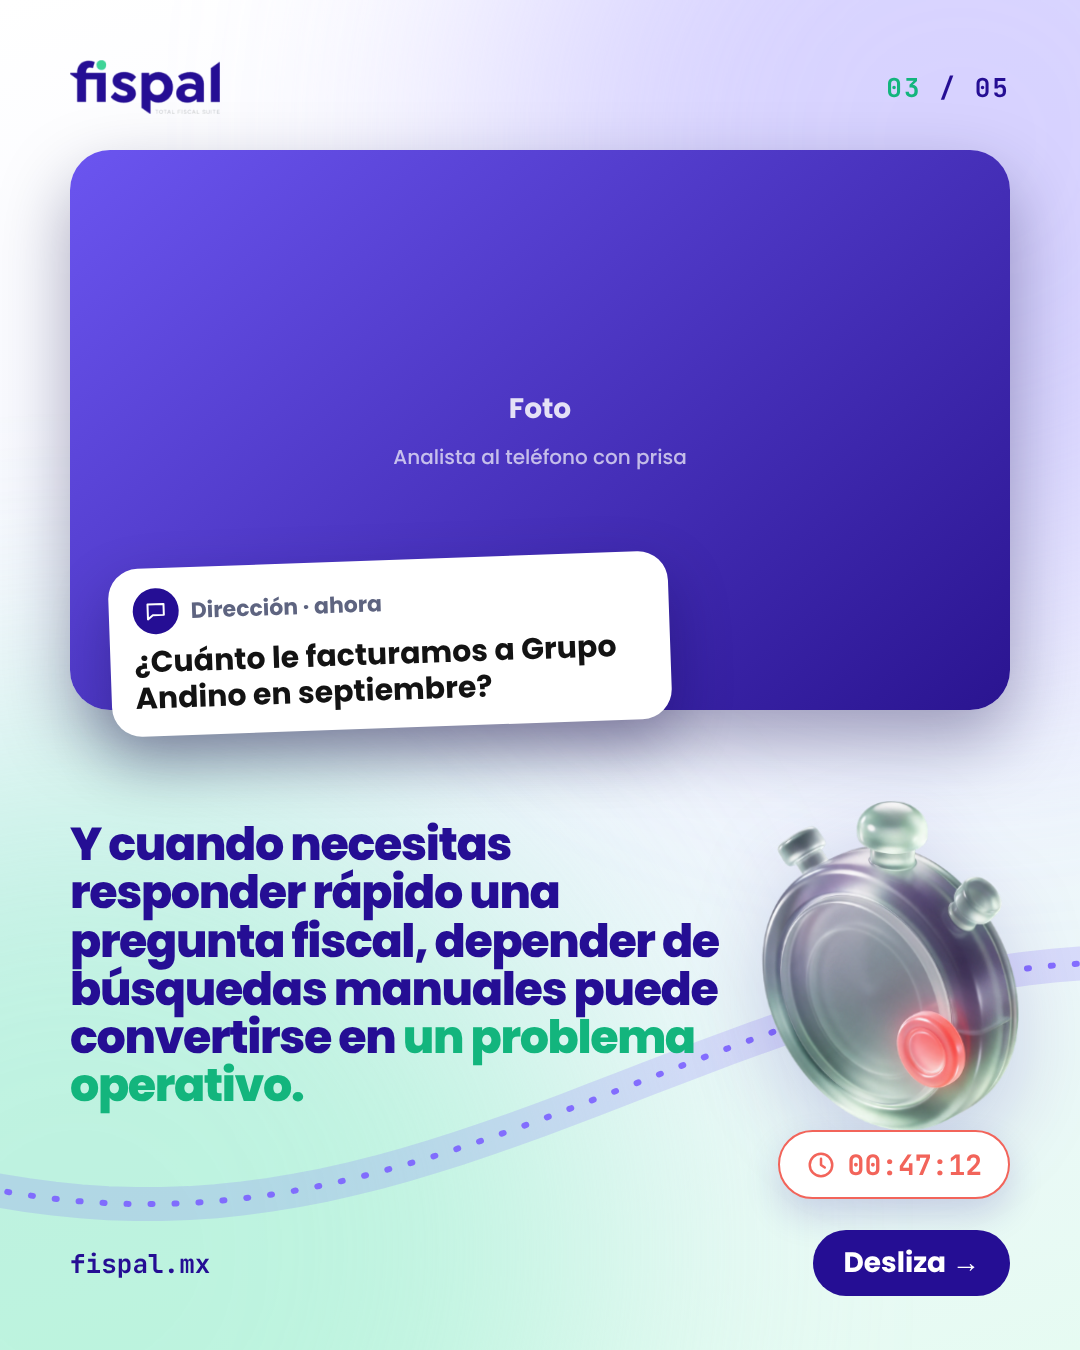
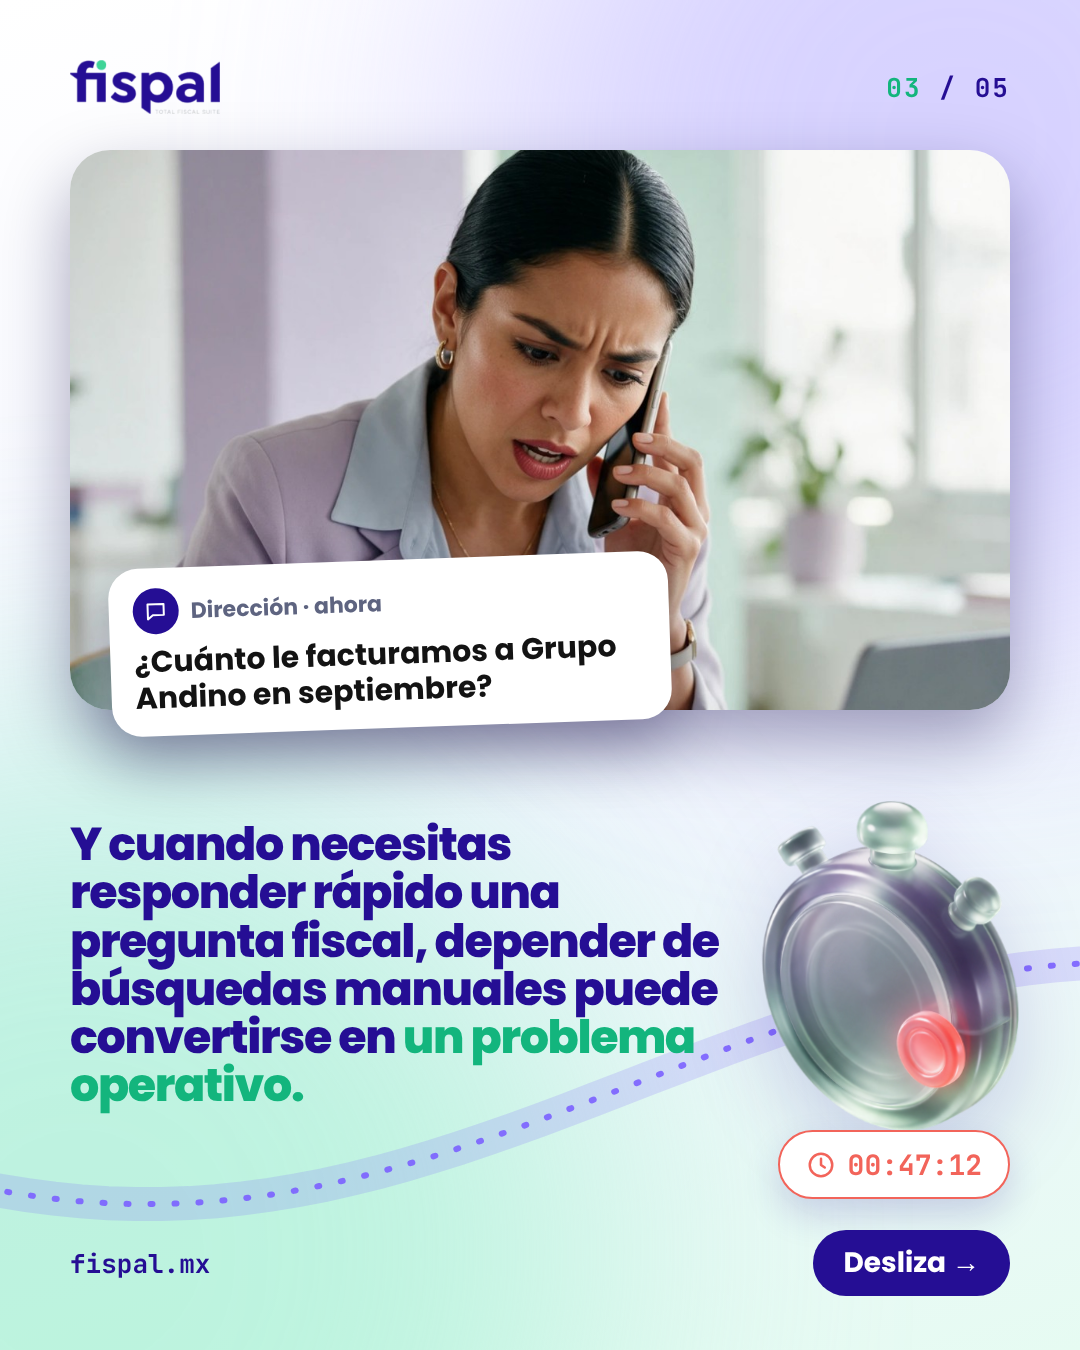
Fispal carrusel 2 (ERP): Magnific photos in place
Claude-Session: https://claude.ai/code/session_01NghCctPQaKXziVeL1FGG6n

diff --git a/editor/src/carruseles/C2Erp.tsx b/editor/src/carruseles/C2Erp.tsx
@@ -36,7 +36,7 @@ const S1: React.FC = () => (
       <Title t={t} size={52} parts={["Pero… ¿qué tan fácil es ", { hl: "encontrarla cuando la necesitas?" }]} style={{ marginTop: 14 }} />
     </div>
     <Glass3D name="erp-laberinto" x={600} y={820} size={560} />
-    <Photo name="c2-erp" hint="Contador frente a su ERP" position="50% 28%" radius="50%" ring="#fff" style={{ left: 60, top: 700, width: 330, height: 330 }} />
+    <Photo name="c2-erp" hint="Contador frente a su ERP" position="56% 30%" radius="50%" ring="#fff" style={{ left: 60, top: 700, width: 330, height: 330 }} />
     <Pill style={{ left: 70, top: 1060 }}>
       <Icon d={IC.search} size={30} color={C.purple} />
       <span style={{ fontFamily: MONO, fontSize: 24, color: CORAL }}>0 resultados</span>
@@ -80,7 +80,7 @@ const S2: React.FC = () => (
 /* 3 — responder rápido: photo banner on top, text below */
 const S3: React.FC = () => (
   <Frame t={t} i={2} n={N}>
-    <Photo name="c2-urgente" hint="Analista al teléfono con prisa" position="50% 30%" radius={40} style={{ left: 70, right: 70, top: 150, height: 560 }} />
+    <Photo name="c2-urgente" hint="Analista al teléfono con prisa" position="50% 38%" radius={40} style={{ left: 70, right: 70, top: 150, height: 560 }} />
     <Card t={t} style={{ position: "absolute", left: 110, top: 560, width: 560, padding: "20px 24px", transform: "rotate(-2deg)" }}>
       <div style={{ display: "flex", alignItems: "center", gap: 12 }}>
         <div style={{ width: 46, height: 46, borderRadius: 23, background: C.purple, display: "flex", alignItems: "center", justifyContent: "center" }}>
@@ -140,7 +140,7 @@ const S5: React.FC = () => (
       <Title t={t} size={58} parts={["Más facilidad para ", { hl: "consultarla y analizarla." }]} style={{ marginTop: 14 }} />
     </div>
     <Glass3D name="dashboard" x={850} y={400} size={420} />
-    <Photo name="c2-relax" hint="Gerente relajado con su laptop" position="55% 28%" radius="50%" ring={GREEN} style={{ left: 330, top: 640, width: 420, height: 420 }} />
+    <Photo name="c2-relax" hint="Gerente relajado con su laptop" position="35% 40%" radius="50%" ring={GREEN} style={{ left: 330, top: 640, width: 420, height: 420 }} />
     <Pill style={{ left: 640, top: 700 }}>
       <Icon d={IC.check} size={30} color={GREEN} sw={3} /> Consulta lista
     </Pill>
